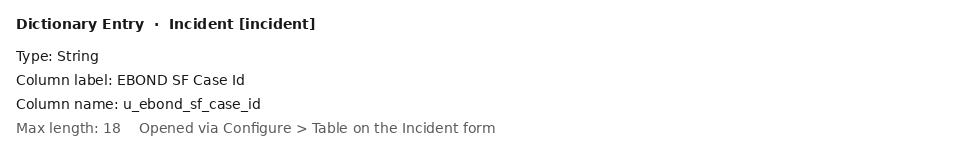
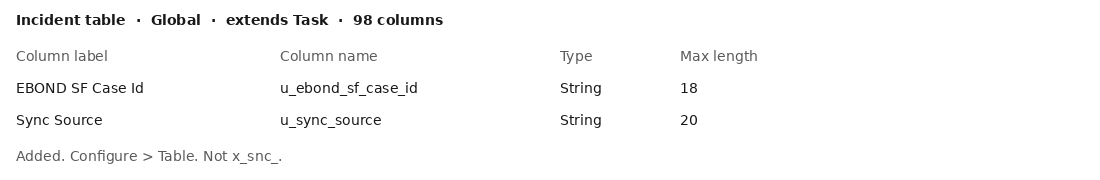
Record that u_ebond_sf_case_id and u_sync_source are on the Incident table.

diff --git a/README.MD b/README.MD
@@ -124,7 +124,14 @@ The classic URL was:
 <details>
 <summary>How the Incident column was opened</summary>
 
-From Incident INC0010003: form menu → **Configure > Table**. The table is Global and extends Task. New column: String, label EBOND SF Case Id, name `u_ebond_sf_case_id`, length 18. Not `x_snc_…`. That prefix is ServiceNow's.
+Added. From Incident INC0010003: form menu → **Configure > Table**. The table is Global, extends Task, and now has 98 columns. Both custom fields are in the list:
+
+| Label | Name | Type | Length |
+|-------|------|------|--------|
+| EBOND SF Case Id | `u_ebond_sf_case_id` | String | 18 |
+| Sync Source | `u_sync_source` | String | 20 |
+
+Not `x_snc_`. That prefix is ServiceNow's.
 
 ![Incident dictionary column](screenshots/02-incident-column.png)
 
